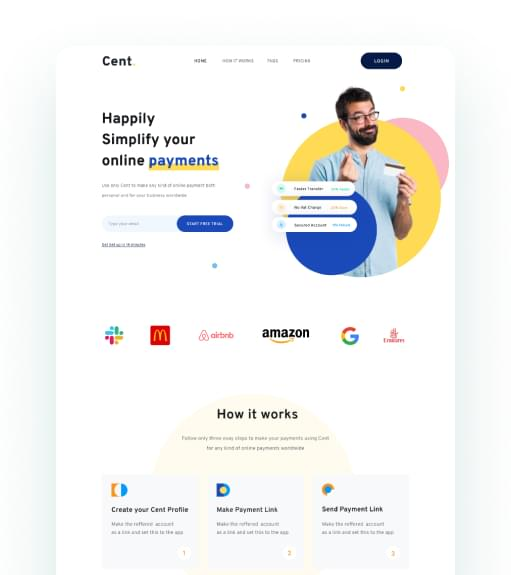
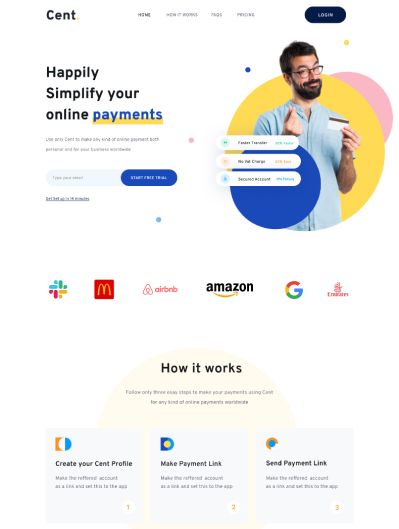
CSS section achievements style  correction

diff --git a/css/main.min.css b/css/main.min.css
@@ -1,1 +1,1 @@
-*{padding:0px;margin:0px;border:none}*,*::before,*::after{box-sizing:border-box}a,a:link,a:visited{text-decoration:none}a:hover{text-decoration:none}aside,nav,footer,header,section,main{display:block}h1,h2,h3,h4,h5,h6,p{font-size:inherit;font-weight:inherit}ul,ul li{list-style:none}img{vertical-align:top}img,svg{max-width:100%;height:auto}address{font-style:normal}input,textarea,button,select{font-family:inherit;font-size:inherit;color:inherit;background-color:rgba(0,0,0,0)}input::-ms-clear{display:none}button,input[type=submit]{display:inline-block;box-shadow:none;background-color:rgba(0,0,0,0);background:none;cursor:pointer}input:focus,input:active,button:focus,button:active{outline:none}button::-moz-focus-inner{padding:0;border:0}label{cursor:pointer}legend{display:block}:root{--container-width: 1140px;--container-padding: 15px;--font-main: "Roboto", sans-serif;--font-secondary: "Poppins", sans-serif;--font-third: "Open Sans", sans-serif;--page-bg: #fff;--header-bg: #e9fbf9;--bage-bg: #fff;--text-color: #464646;--section-title: #021d1a;--accent: #ff823b;--accent-second: #124f48;--accent-second-muted: rgba(18, 79, 72, 0.37);--bage-text: #ff6107;--laptop-size: 1199px;--table-size: 959px;--mobile-size: 599px}html{scroll-behavior:smooth}body{font-family:var(--font-main);background-color:var(--page-bg);color:var(--text-color)}.none{display:none !important}.visually-hidden{position:absolute;width:1px;height:1px;margin:-1px;border:0;padding:0;white-space:nowrap;-webkit-clip-path:inset(100%);clip-path:inset(100%);clip:rect(0 0 0 0);overflow:hidden}.no-scroll{overflow-y:hidden}.container{padding:0 var(--container-padding);max-width:var(--container-width);margin:0 auto}.logo{font-size:32px}.nav__list{display:flex;-moz-column-gap:62px;column-gap:62px}.nav__list a{position:relative;font-size:16px;color:var(--text-color)}.nav__list a::before{position:absolute;content:"";height:2px;width:0;bottom:0;right:0;transition:width .2s ease-in;background-color:#ff7715}.nav__list a:hover{font-size:16px;font-weight:500;color:#0b041b}.nav__list a:hover::before{width:29px}.h1{font-weight:800;font-size:64px;line-height:1.25;color:var(--section-title);font-family:var(--font-secondary)}.h2{font-weight:700;font-size:44px;line-height:1.82;color:var(--section-title);font-family:var(--font-secondary)}.h3{font-weight:700;font-size:24px;color:var(--section-title)}.h3--darker{color:#000}.word-accent{color:#ff823b}.color-figure{z-index:-1;position:absolute;top:0;left:50%;transform:translateX(-46%);width:calc(var(--container-width) + 225px);height:100%;border-radius:30px;background-color:var(--header-bg)}.badge{display:inline-block;padding-left:22px;padding-right:22px;height:38px;line-height:38px;border-radius:4px;border:1px solid #f2faf9;background-color:var(--bage-bg);font-size:16px;letter-spacing:.1em;color:#ff6107}.widget{padding:44px 37px;width:314px;height:314px;display:grid;grid-template-columns:repeat(2, 1fr);grid-template-rows:repeat(2, 1fr);-moz-column-gap:31px;column-gap:31px;row-gap:18px;background-color:rgba(255,255,255,.9);box-shadow:0 3px 84px 0 rgba(142,199,192,.3);border-radius:20px}.btn{display:inline-block;padding-left:39px;padding-right:39px;height:57px;border-radius:32px;font-weight:700;font-size:18px;letter-spacing:.05em;line-height:57px;color:#fff;cursor:pointer;transition:opacity .2s ease-in}.btn:hover{opacity:.9}.btn--login{background-color:var(--accent-second)}.btn--solid{background-color:var(--accent)}.btn-video{position:relative;padding-left:55px;padding-right:36px;height:57px;font-weight:700;font-size:18px;letter-spacing:.05em;color:#ff823b}.btn-video::before{position:absolute;top:50%;left:0;transform:translateY(-50%);content:url("./../img/icons/header/play.svg");width:39px;height:39px;background-color:#fff;border-radius:50%;box-shadow:0 0 24px 0 #d6e2e1;line-height:39px}.btn-outline{width:203px;height:57px;display:flex;justify-content:left;align-items:center;-moz-column-gap:14px;column-gap:14px;border-radius:31px;font-weight:700;font-size:18px;letter-spacing:.05em;color:#124f48;cursor:pointer;transition:all .2s ease-in}.btn-outline img{width:unset;width:14px;height:14px}.service-card{padding:50px 34px 45px 0;display:block;width:364px;height:415px;cursor:pointer;transition:all .2s ease-in}.service-card:hover{padding-left:34px;background-color:#fff;box-shadow:0 20px 84px 0 rgba(245,245,245,.8)}.service-card:hover .btn-outline{justify-content:center;background-color:#ff823b;color:#fff}.service-card:hover .service-card__img svg{box-shadow:30px 44px 84px 0 rgba(208,211,231,.31)}.service-card__img{margin-bottom:30px;width:80px;height:80px;border-radius:20px;overflow:hidden;transition:box-shadow .1s ease-in}.service-card__text{margin-bottom:28px}.service-card__title{margin-bottom:20px}.service-card__desc{height:81px;font-family:var(--font-third);font-size:18px;line-height:2}.achievements-card__img{margin-bottom:35px;width:511px;height:600px;border-radius:20px;overflow:hidden;background-color:#edfffd;background-image:url("./../img/achievements/circle.svg");background-position:50% 280%;background-size:502px 502px;background-repeat:no-repeat}.achievements-card__img img{position:relative;left:50%;top:71px;transform:translateX(-50%);width:377px;height:529px;border-top-left-radius:20px;border-top-right-radius:20px;box-shadow:0 21px 94px 0 rgba(131,193,186,.38);-o-object-fit:cover;object-fit:cover;overflow:hidden}.achievements-card__img--lightBg{background-color:#fff8f4}.achievements-card__img--lightBg img{box-shadow:0 34px 80px 0 rgba(80,153,145,.24)}.achievements-card__text{margin-bottom:45px}.achievements-card__title{margin-bottom:35px}.achievements-card__desc{font-size:18px;line-height:2}.data-grid{width:465px;height:410px;display:grid;grid-template-columns:83px 162px 1fr;grid-template-rows:repeat(4, 1fr);-moz-column-gap:38px;column-gap:38px;row-gap:44px;align-items:center}.data-grid__number{font-weight:700;font-size:36px;line-height:2.22;color:rgba(18,79,72,.37)}.data-grid__title{font-weight:500;font-size:18px;line-height:144%;color:#124f48}.data-grid__desc{font-weight:700;font-size:14px;line-height:1.86;color:#ff823b}.slider__item{display:inline-block;width:520px;height:649px;padding-bottom:19px;border-radius:10px;background-color:#fff;cursor:pointer;transition:all .2s ease-in}.slider__item:hover{padding-left:20px}.slider__item:hover{box-shadow:20px 24px 114px 0 #f5f5f5}.slider__item:hover .slider__badge{box-shadow:0 4px 4px 0 rgba(0,0,0,.25)}.slider__item:hover .btn-outline{justify-content:center;background-color:var(--accent);color:#fff}.slider__item:hover .slider__img{margin-bottom:43px;padding-top:30px}.slider__item:hover .slider__img img{width:460px;height:300px}.slider__img{margin-bottom:43px;padding-top:18px;width:510px;height:328px;position:relative;text-align:center;overflow:hidden}.slider__img img{width:510px;height:328px;-o-object-fit:cover;object-fit:cover;transition:all .2s ease-in;pointer-events:none}.slider__badge{position:absolute;top:0;right:0;display:flex;align-items:center;width:75px;height:75px;padding:8px 17px;border-radius:10px;background-color:#124f48;font-weight:700;font-size:24px;line-height:1.25;color:#fff;transition:box-shadow .2s ease-in}.slider__text{margin-bottom:45px;padding-right:4px}.slider__title{margin-bottom:35px;font-weight:700;font-size:24px;line-height:1.25;color:#000}.slider__desc{font-size:18px;line-height:1.67;color:var(--text-color)}.slider__arrow{position:absolute;top:0;right:0;transition:opacity .2s ease-in}.slider__arrow:hover{opacity:.5}.slider__arrow--left{margin-right:38px}.header-top{padding-top:155px;padding-bottom:70px}.header-top__row{display:flex;justify-content:space-between;align-items:center}.header{position:relative;padding-top:43px}.header__content{position:relative;display:flex;justify-content:space-between;align-items:flex-start}.header__text{padding-top:19px;max-width:600px}.header__badge{margin-bottom:30px}.header__title{margin-bottom:31px}.header__desc{margin-bottom:51px;max-width:428px;font-size:18px;line-height:1.67}.header__desc p+p{margin-top:10px}.header__buttons{display:flex;-moz-column-gap:55px;column-gap:55px}.header__img{position:relative;height:100%}.header__figure img{width:562px;height:537px}.header__hero{position:absolute;content:"";right:50%;bottom:0;transform:translateX(81%);width:900px;height:673px}.header__hero img{width:100%;height:100%;-o-object-fit:cover;object-fit:cover}.header__widget{position:absolute;bottom:-50%;right:50%;transform:translate(110%, -80%)}.our-clients{padding-top:170px;padding-bottom:100px}.our-clients__list{display:flex;flex-wrap:wrap;gap:30px}.our-clients__list a{display:flex;justify-content:center;align-items:center;width:255px;height:103px;background-color:#f1faf9;border-radius:10px;transition:background-color .2s ease-in}.our-clients__list a:hover{background-color:#dbeeff}.service{padding-bottom:160px}.service__header{margin-bottom:70px;display:flex;align-items:center}.service__title{max-width:524px}.service__desc{margin-left:111px;max-width:428px;font-size:18px;line-height:1.67;color:var(--text-color)}.service-card__row{display:flex}.achievements{padding-bottom:140px}.achievements__row{display:flex}.achievements__column{width:540px;margin-right:56px}.achievements__badge{margin-bottom:10px}.achievements__title{margin-bottom:140px}.achievements__data-grid{margin-bottom:70px;padding-top:91px}.blog{padding-bottom:54px}.blog__badge{padding-bottom:54px;margin-bottom:25px;text-align:center}.blog__title{margin-bottom:25px;text-align:center}.blog__desc{margin-left:auto;margin-right:auto;max-width:662px;text-align:center}.blog__desc p{font-weight:400;font-size:18px;line-height:1.67;color:var(--text-color)}.blog__slider{position:relative;padding-top:70px}.cta{padding-top:156px;padding-bottom:70px;background-color:#e9fbf9}.cta__title{margin-bottom:45px;margin-left:auto;margin-right:auto;max-width:690px;text-align:center}.cta__buttons{display:flex;justify-content:center}.cta__btn{font-size:18px;color:#ff823b;font-family:var(--font-secondary)}.cta__link{margin-left:27px;display:flex;align-items:center;justify-content:center;-moz-column-gap:26px;column-gap:26px;width:203px;height:57px;border-radius:31px;background-color:#ff823b;font-weight:700;font-size:18px;letter-spacing:.05em;color:#fff}.footer{padding-bottom:15px;background-color:#e9fbf9;color:#124f48}.footer__row{display:flex;align-items:center;justify-content:space-between}.footer__logo{margin-bottom:8px}.footer__text{font-size:12px;color:#ff823b}.footer__text p+p{margin-top:5px}.footer-nav__list{display:flex}.footer-nav__list li:not(:last-child){margin-right:70px}.footer-nav__list a{font-size:18px;color:#124f48;transition:all .2s ease-in}.footer-nav__list a:hover{font-weight:700;color:#ff823b}.footer-contact__list,.footer-contact__list a{font-size:18px;line-height:2;color:#124f48}/*# sourceMappingURL=main.min.css.map */
+@import"https://fonts.googleapis.com/css2?family=Open+Sans:ital,wght@0,300..800;1,300..800&family=Poppins:ital,wght@0,100;0,200;0,300;0,400;0,500;0,600;0,700;0,800;0,900;1,100;1,200;1,300;1,400;1,500;1,600;1,700;1,800;1,900&family=Roboto:ital,wght@0,100;0,300;0,400;0,500;0,700;0,900;1,100;1,300;1,400;1,500;1,700;1,900&display=swap";*{padding:0px;margin:0px;border:none}*,*::before,*::after{box-sizing:border-box}a,a:link,a:visited{text-decoration:none}a:hover{text-decoration:none}aside,nav,footer,header,section,main{display:block}h1,h2,h3,h4,h5,h6,p{font-size:inherit;font-weight:inherit}ul,ul li{list-style:none}img{vertical-align:top}img,svg{max-width:100%;height:auto}address{font-style:normal}input,textarea,button,select{font-family:inherit;font-size:inherit;color:inherit;background-color:rgba(0,0,0,0)}input::-ms-clear{display:none}button,input[type=submit]{display:inline-block;box-shadow:none;background-color:rgba(0,0,0,0);background:none;cursor:pointer}input:focus,input:active,button:focus,button:active{outline:none}button::-moz-focus-inner{padding:0;border:0}label{cursor:pointer}legend{display:block}:root{--container-width: 1140px;--container-padding: 15px;--font-main: "Roboto", sans-serif;--font-secondary: "Poppins", sans-serif;--font-third: "Open Sans", sans-serif;--page-bg: #fff;--header-bg: #e9fbf9;--bage-bg: #fff;--text-color: #464646;--section-title: #021d1a;--accent: #ff823b;--accent-second: #124f48;--accent-second-muted: rgba(18, 79, 72, 0.37);--bage-text: #ff6107;--laptop-size: 1199px;--table-size: 959px;--mobile-size: 599px}html{scroll-behavior:smooth}body{font-family:var(--font-main);background-color:var(--page-bg);color:var(--text-color)}.none{display:none !important}.visually-hidden{position:absolute;width:1px;height:1px;margin:-1px;border:0;padding:0;white-space:nowrap;-webkit-clip-path:inset(100%);clip-path:inset(100%);clip:rect(0 0 0 0);overflow:hidden}.no-scroll{overflow-y:hidden}.container{padding:0 var(--container-padding);max-width:var(--container-width);margin:0 auto}.logo{font-size:32px}.nav__list{display:flex;-moz-column-gap:62px;column-gap:62px}.nav__list a{position:relative;font-size:16px;color:var(--text-color)}.nav__list a::before{position:absolute;content:"";height:2px;width:0;bottom:0;right:0;transition:width .2s ease-in;background-color:#ff7715}.nav__list a:hover{font-size:16px;font-weight:500;color:#0b041b}.nav__list a:hover::before{width:29px}.h1{font-weight:800;font-size:64px;line-height:1.25;color:var(--section-title);font-family:var(--font-secondary)}.h2{font-weight:700;font-size:44px;line-height:1.82;color:var(--section-title);font-family:var(--font-secondary)}.h3{font-weight:700;font-size:24px;color:var(--section-title)}.h3--darker{color:#000}.word-accent{color:#ff823b}.color-figure{z-index:-1;position:absolute;top:0;left:50%;transform:translateX(-46%);width:calc(var(--container-width) + 225px);height:100%;border-radius:30px;background-color:var(--header-bg)}.badge{display:inline-block;padding-left:22px;padding-right:22px;height:38px;line-height:38px;border-radius:4px;border:1px solid #f2faf9;background-color:var(--bage-bg);font-size:16px;letter-spacing:.1em;color:#ff6107}.widget{padding:44px 37px;width:314px;height:314px;display:grid;grid-template-columns:repeat(2, 1fr);grid-template-rows:repeat(2, 1fr);-moz-column-gap:31px;column-gap:31px;row-gap:18px;background-color:rgba(255,255,255,.9);box-shadow:0 3px 84px 0 rgba(142,199,192,.3);border-radius:20px}.btn{display:inline-block;padding-left:39px;padding-right:39px;height:57px;border-radius:32px;font-weight:700;font-size:18px;letter-spacing:.05em;line-height:57px;color:#fff;cursor:pointer;transition:opacity .2s ease-in}.btn:hover{opacity:.9}.btn--login{background-color:var(--accent-second)}.btn--solid{background-color:var(--accent)}.btn-video{position:relative;padding-left:55px;padding-right:36px;height:57px;font-weight:700;font-size:18px;letter-spacing:.05em;color:#ff823b}.btn-video::before{position:absolute;top:50%;left:0;transform:translateY(-50%);content:url("./../img/icons/header/play.svg");width:39px;height:39px;background-color:#fff;border-radius:50%;box-shadow:0 0 24px 0 #d6e2e1;line-height:39px}.btn-outline{width:203px;height:57px;display:flex;justify-content:left;align-items:center;-moz-column-gap:14px;column-gap:14px;border-radius:31px;font-weight:700;font-size:18px;letter-spacing:.05em;color:#124f48;cursor:pointer;transition:all .2s ease-in}.btn-outline img{width:unset;width:14px;height:14px}.service-card{padding:50px 34px 45px 0;display:block;width:364px;height:415px;cursor:pointer;transition:all .2s ease-in}.service-card:hover{padding-left:34px;background-color:#fff;box-shadow:0 20px 84px 0 rgba(245,245,245,.8)}.service-card:hover .btn-outline{justify-content:center;background-color:#ff823b;color:#fff}.service-card:hover .service-card__img svg{box-shadow:30px 44px 84px 0 rgba(208,211,231,.31)}.service-card__img{margin-bottom:30px;width:80px;height:80px;border-radius:20px;overflow:hidden;transition:box-shadow .1s ease-in}.service-card__text{margin-bottom:28px}.service-card__title{margin-bottom:20px}.service-card__desc{height:81px;font-family:var(--font-third);font-size:18px;line-height:2}.achievements-card__img{margin-bottom:35px;width:511px;height:600px;border-radius:20px;overflow:hidden;background-color:#edfffd;background-image:url("./../img/achievements/circle.svg");background-position:50% 280%;background-size:502px 502px;background-repeat:no-repeat}.achievements-card__img img{position:relative;left:50%;top:71px;transform:translateX(-50%);width:377px;height:529px;border-top-left-radius:20px;border-top-right-radius:20px;box-shadow:0 21px 94px 0 rgba(131,193,186,.38);-o-object-fit:cover;object-fit:cover;overflow:hidden}.achievements-card__img--lightBg{background-color:#fff8f4}.achievements-card__img--lightBg img{box-shadow:0 34px 80px 0 rgba(80,153,145,.24)}.achievements-card__text{margin-bottom:45px}.achievements-card__title{margin-bottom:35px}.achievements-card__desc{font-size:18px;line-height:2}.data-grid{padding-left:52px;width:510px;height:410px;display:grid;grid-template-columns:83px 150px auto;grid-template-rows:repeat(4, 1fr);-moz-column-gap:38px;column-gap:38px;row-gap:44px;align-items:center}.data-grid__number{font-weight:700;font-size:36px;line-height:2.22;color:rgba(18,79,72,.37)}.data-grid__title{font-weight:500;font-size:18px;line-height:144%;color:#124f48}.data-grid__desc{font-weight:700;font-size:14px;line-height:1.86;color:#ff823b}.slider__item{display:inline-block;width:520px;height:649px;padding-bottom:19px;border-radius:10px;background-color:#fff;cursor:pointer;transition:all .2s ease-in}.slider__item:hover{padding-left:20px}.slider__item:hover{box-shadow:20px 24px 114px 0 #f5f5f5}.slider__item:hover .slider__badge{box-shadow:0 4px 4px 0 rgba(0,0,0,.25)}.slider__item:hover .btn-outline{justify-content:center;background-color:var(--accent);color:#fff}.slider__item:hover .slider__img{margin-bottom:43px;padding-top:30px}.slider__item:hover .slider__img img{width:460px;height:300px}.slider__img{margin-bottom:43px;padding-top:18px;width:510px;height:328px;position:relative;text-align:center;overflow:hidden}.slider__img img{width:510px;height:328px;-o-object-fit:cover;object-fit:cover;transition:all .2s ease-in;pointer-events:none}.slider__badge{position:absolute;top:0;right:0;display:flex;align-items:center;width:75px;height:75px;padding:8px 17px;border-radius:10px;background-color:#124f48;font-weight:700;font-size:24px;line-height:1.25;color:#fff;transition:box-shadow .2s ease-in}.slider__text{margin-bottom:45px;padding-right:4px}.slider__title{margin-bottom:35px;font-weight:700;font-size:24px;line-height:1.25;color:#000}.slider__desc{font-size:18px;line-height:1.67;color:var(--text-color)}.slider__arrow{position:absolute;top:0;right:0;transition:opacity .2s ease-in}.slider__arrow:hover{opacity:.5}.slider__arrow--left{margin-right:38px}.header-top{padding-top:155px;padding-bottom:70px}.header-top__row{display:flex;justify-content:space-between;align-items:center}.header{position:relative;padding-top:43px}.header__content{position:relative;display:flex;justify-content:space-between;align-items:flex-start}.header__text{padding-top:19px;max-width:600px}.header__badge{margin-bottom:30px}.header__title{margin-bottom:31px}.header__desc{margin-bottom:51px;max-width:428px;font-size:18px;line-height:1.67}.header__desc p+p{margin-top:10px}.header__buttons{display:flex;-moz-column-gap:55px;column-gap:55px}.header__img{position:relative;height:100%}.header__figure img{width:562px;height:537px}.header__hero{position:absolute;content:"";right:50%;bottom:0;transform:translateX(81%);width:900px;height:673px}.header__hero img{width:100%;height:100%;-o-object-fit:cover;object-fit:cover}.header__widget{position:absolute;bottom:-50%;right:50%;transform:translate(110%, -80%)}.our-clients{padding-top:170px;padding-bottom:100px}.our-clients__list{display:flex;flex-wrap:wrap;gap:30px}.our-clients__list a{display:flex;justify-content:center;align-items:center;width:255px;height:103px;background-color:#f1faf9;border-radius:10px;transition:background-color .2s ease-in}.our-clients__list a:hover{background-color:#dbeeff}.service{padding-bottom:160px}.service__header{margin-bottom:20px;display:flex;align-items:center}.service__title{max-width:524px}.service__desc{margin-left:111px;max-width:428px;font-size:18px;line-height:1.67;color:var(--text-color)}.service-card__row{display:flex}.achievements{padding-bottom:140px}.achievements__row{display:flex}.achievements__column:first-child{margin-right:36px}.achievements__badge{margin-bottom:10px}.achievements__title{margin-bottom:140px}.achievements__data-grid{margin-bottom:70px;padding-top:91px}.blog{padding-bottom:54px}.blog__badge{padding-bottom:54px;margin-bottom:25px;text-align:center}.blog__title{margin-bottom:25px;text-align:center}.blog__desc{margin-left:auto;margin-right:auto;max-width:662px;text-align:center}.blog__desc p{font-weight:400;font-size:18px;line-height:1.67;color:var(--text-color)}.blog__slider{position:relative;padding-top:70px}.cta{padding-top:156px;padding-bottom:70px;background-color:#e9fbf9}.cta__title{margin-bottom:45px;margin-left:auto;margin-right:auto;max-width:690px;text-align:center}.cta__buttons{display:flex;justify-content:center}.cta__btn{font-size:18px;color:#ff823b;font-family:var(--font-secondary)}.cta__link{margin-left:27px;display:flex;align-items:center;justify-content:center;-moz-column-gap:26px;column-gap:26px;width:203px;height:57px;border-radius:31px;background-color:#ff823b;font-weight:700;font-size:18px;letter-spacing:.05em;color:#fff}.footer{padding-bottom:15px;background-color:#e9fbf9;color:#124f48}.footer__row{display:flex;align-items:center;justify-content:space-between}.footer__logo{margin-bottom:8px}.footer__text{font-size:12px;color:#ff823b}.footer__text p+p{margin-top:5px}.footer-nav__list{display:flex}.footer-nav__list li:not(:last-child){margin-right:70px}.footer-nav__list a{font-size:18px;color:#124f48;transition:all .2s ease-in}.footer-nav__list a:hover{font-weight:700;color:#ff823b}.footer-contact__list,.footer-contact__list a{font-size:18px;line-height:2;color:#124f48}/*# sourceMappingURL=main.min.css.map */

diff --git a/css/main.css b/css/main.css
@@ -1,3 +1,4 @@
+@import url("https://fonts.googleapis.com/css2?family=Open+Sans:ital,wght@0,300..800;1,300..800&family=Poppins:ital,wght@0,100;0,200;0,300;0,400;0,500;0,600;0,700;0,800;0,900;1,100;1,200;1,300;1,400;1,500;1,600;1,700;1,800;1,900&family=Roboto:ital,wght@0,100;0,300;0,400;0,500;0,700;0,900;1,100;1,300;1,400;1,500;1,700;1,900&display=swap");
 /* Base */
 /* Reset and base styles  */
 * {
@@ -414,10 +415,11 @@ body {
 }
 
 .data-grid {
-  width: 465px;
+  padding-left: 52px;
+  width: 510px;
   height: 410px;
   display: grid;
-  grid-template-columns: 83px 162px 1fr;
+  grid-template-columns: 83px 150px auto;
   grid-template-rows: repeat(4, 1fr);
   -moz-column-gap: 38px;
        column-gap: 38px;
@@ -664,7 +666,7 @@ body {
 }
 
 .service__header {
-  margin-bottom: 70px;
+  margin-bottom: 20px;
   display: flex;
   align-items: center;
 }
@@ -693,9 +695,8 @@ body {
   display: flex;
 }
 
-.achievements__column {
-  width: 540px;
-  margin-right: 56px;
+.achievements__column:first-child {
+  margin-right: 36px;
 }
 
 .achievements__badge {

diff --git a/scss/main.scss b/scss/main.scss
@@ -1,3 +1,4 @@
+@import url('https://fonts.googleapis.com/css2?family=Open+Sans:ital,wght@0,300..800;1,300..800&family=Poppins:ital,wght@0,100;0,200;0,300;0,400;0,500;0,600;0,700;0,800;0,900;1,100;1,200;1,300;1,400;1,500;1,600;1,700;1,800;1,900&family=Roboto:ital,wght@0,100;0,300;0,400;0,500;0,700;0,900;1,100;1,300;1,400;1,500;1,700;1,900&display=swap');
 
 
 /* Base */

diff --git a/scss/sections/_achievements.scss b/scss/sections/_achievements.scss
@@ -6,9 +6,8 @@
     display: flex;
 }
 
-.achievements__column {
-    width: 540px;
-    margin-right: 56px;
+.achievements__column:first-child {
+    margin-right: 36px;
 }
 
 .achievements__badge {
@@ -22,7 +21,4 @@
 .achievements__data-grid {
     margin-bottom: 70px;
     padding-top: 91px;
-}
-
-.achievements__btn {
 }

diff --git a/scss/blocks/_data-grid.scss b/scss/blocks/_data-grid.scss
@@ -1,9 +1,10 @@
 .data-grid {
-    width: 465px;
+    padding-left: 52px;
+    width: 510px;
     height: 410px;
 
     display: grid;
-    grid-template-columns: 83px 162px 1fr;
+    grid-template-columns: 83px 150px auto;
     grid-template-rows: repeat(4, 1fr);
     column-gap: 38px;
     row-gap: 44px;

diff --git a/scss/sections/_service.scss b/scss/sections/_service.scss
@@ -3,7 +3,7 @@
 }
 
 .service__header {
-    margin-bottom: 70px;
+    margin-bottom: 20px;
 
     display: flex;
     align-items: center;
